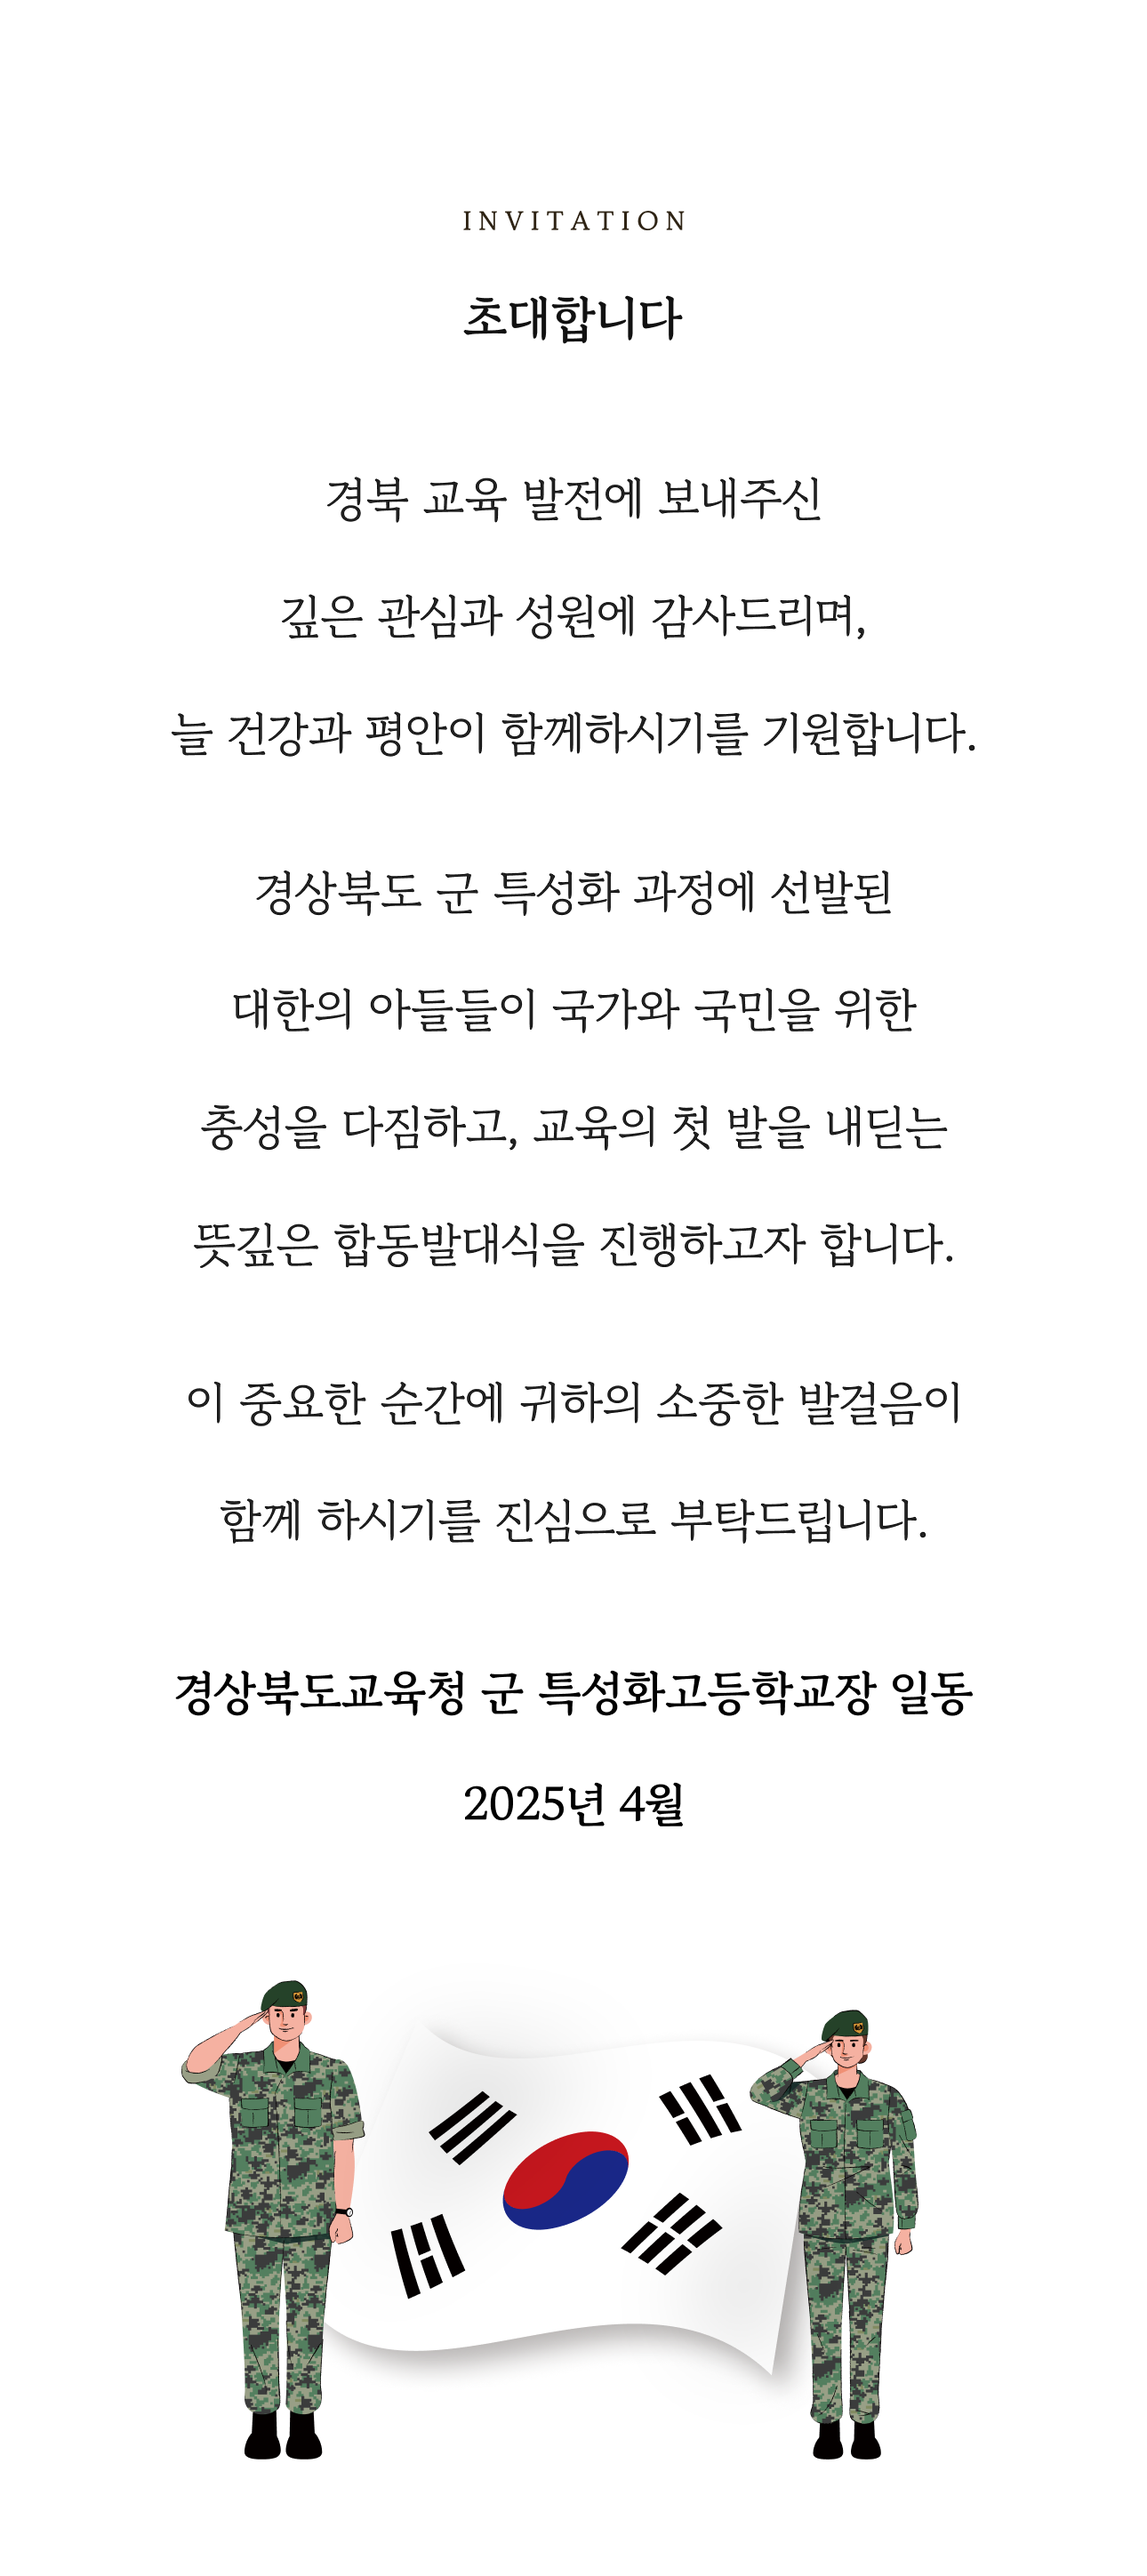
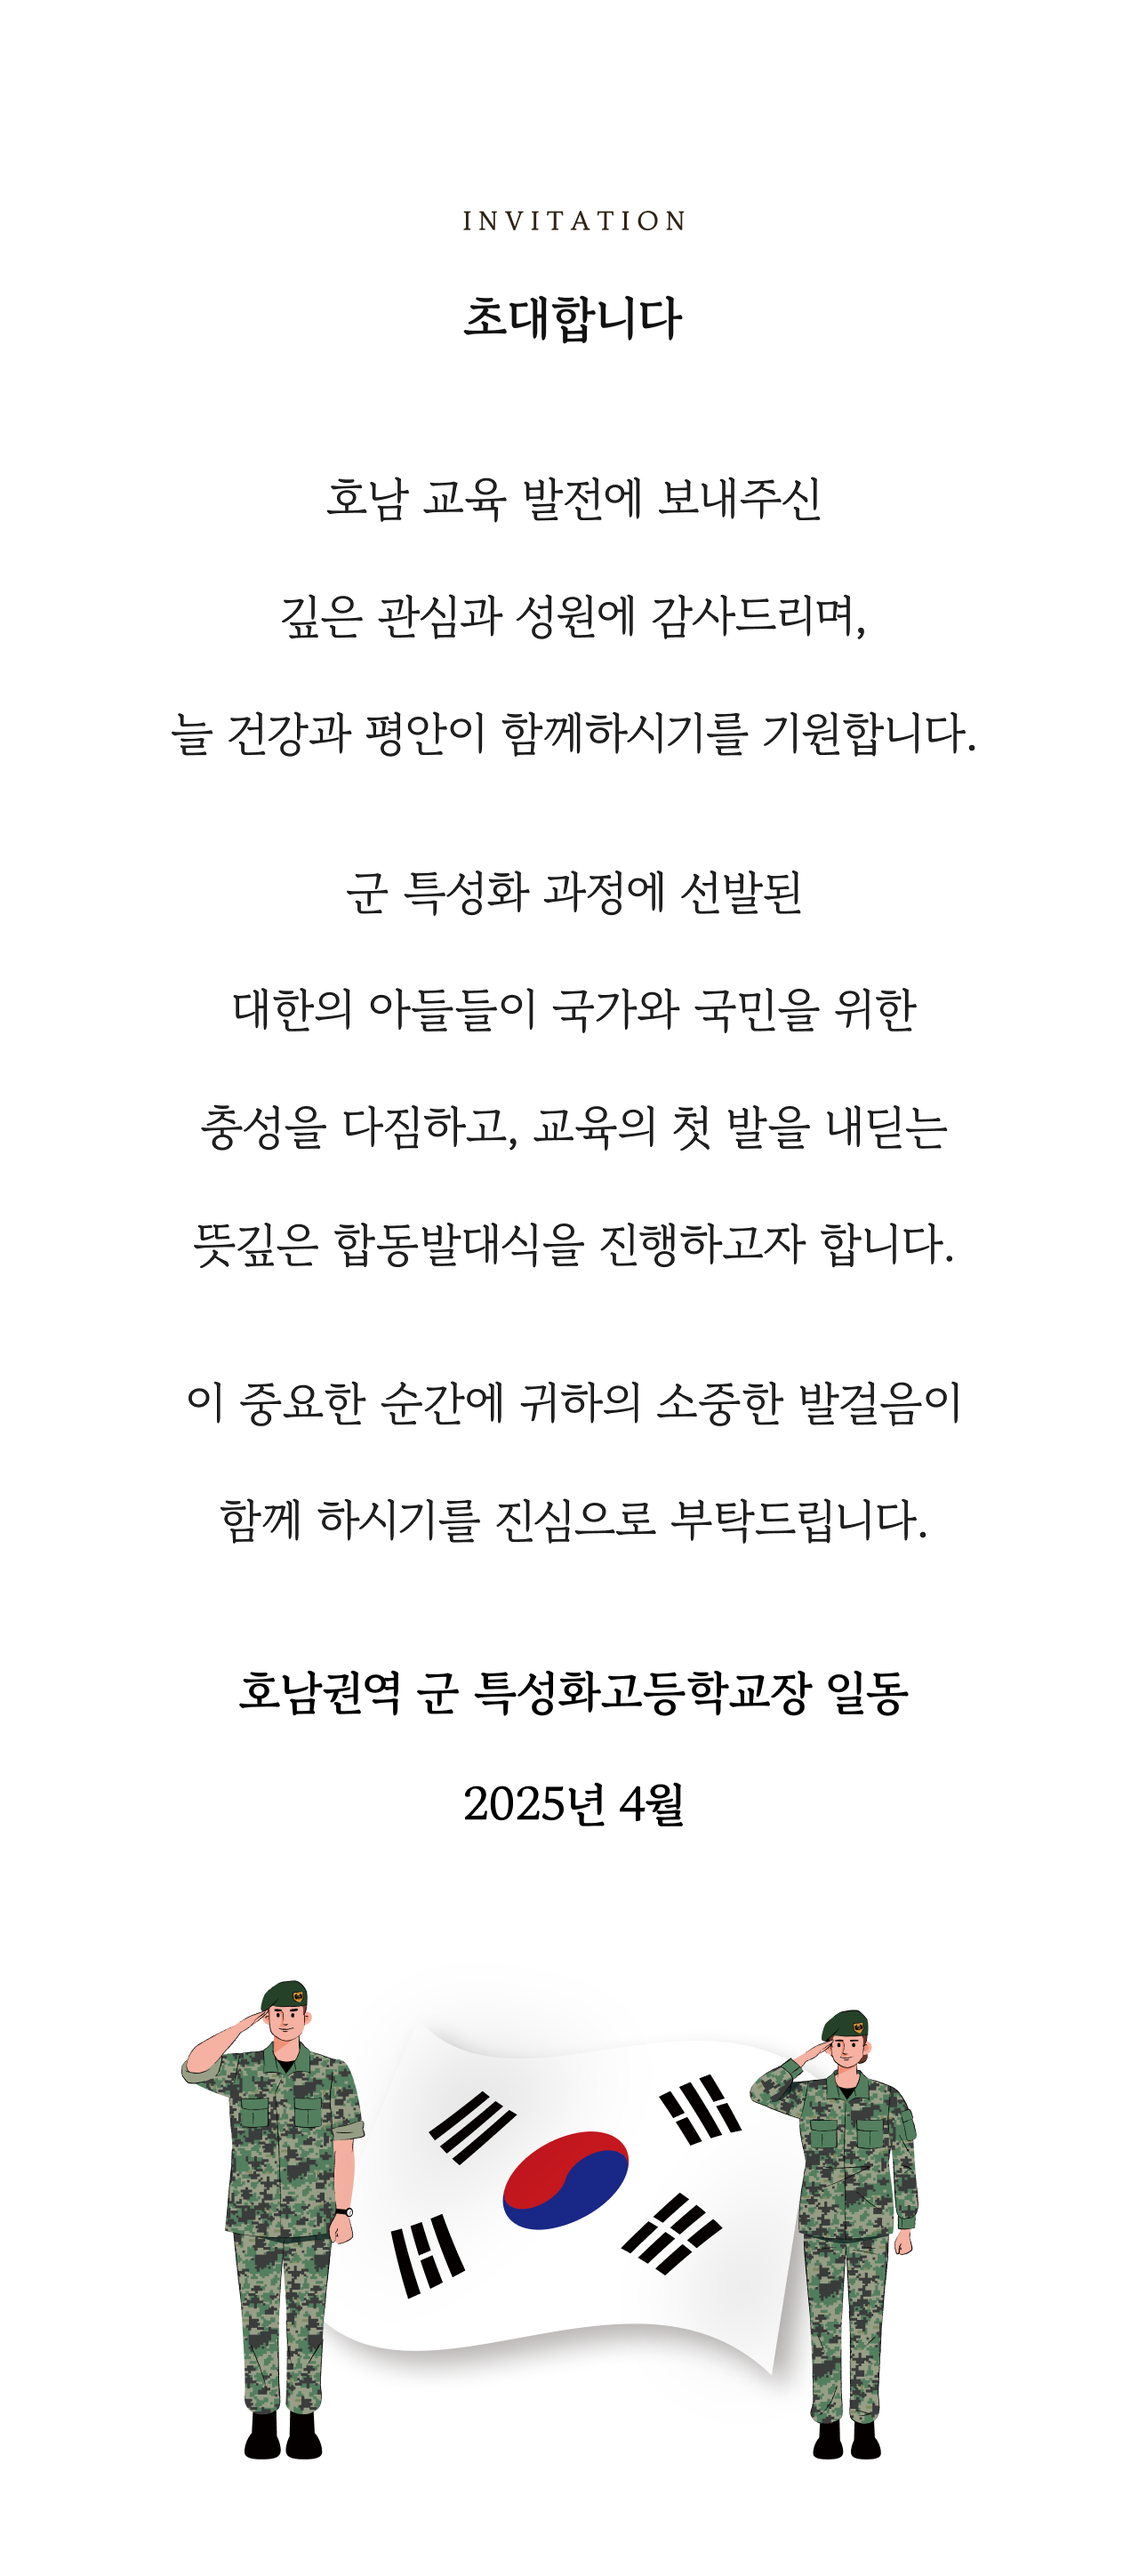
44

Changed region(s): [[0.155, 0.6524, 0.8372, 0.6835], [0.2481, 0.3417, 0.7752, 0.3728], [0.2791, 0.1864, 0.3721, 0.2175]]

diff --git a/index.html b/index.html
@@ -5,7 +5,7 @@
   <meta charset="utf-8" />
   <link rel="icon" href="/img/heart_icon.png" />
   <meta name="viewport" content="width=device-width" />
-  <title>25년 경상북도 군 특성화고 호남권역 합동 발대식에 초대합니다.</title>
+  <title>25년 군 특성화고 호남권역 합동 발대식에 초대합니다.</title>
   <meta http-equiv="X-UA-Compatible" content="IE=edge, chrome=1" />
   <meta name="viewport"
     content="width=device-width,initial-scale=1.0,maximum-scale=1.0,minimum-scale=1.0,user-scalable=no,target-densitydpi=medium-dpi" />
@@ -15,10 +15,10 @@
   <meta name="description" content="2025년 4월 15일 화요일" />
   <link rel="canonical" href="https://mo65.luvle.kr" />
   <meta property="og:url" content="https://mo65.luvle.kr" />
-  <meta property="og:title" content="25년 경상북도 군 특성화고 호남권역 합동 발대식에 초대합니다." />
+  <meta property="og:title" content="25년 군 특성화고 호남권역 합동 발대식에 초대합니다." />
   <meta property="og:description" content="2025년 4월 15일 화요일" />
-  <meta property="og:image" content="https://i.imgur.com/mqOGHD8.png" />
-  <meta property="og:site_name" content="25년 경상북도 군 특성화고 합동 발대식에 초대합니다." />
+  <meta property="og:image" content="https://i.imgur.com/0JsbYwH.png" />
+  <meta property="og:site_name" content="25년 군 특성화고 합동 발대식에 초대합니다." />
   <script src="https://cdn.tailwindcss.com"></script>
   <link rel="stylesheet" type="text/css" href="style.css" />
   <link rel="stylesheet" href="swiper-bundle.min.css" />
@@ -253,11 +253,11 @@
                     text-align: center;
                     line-height: 1.5rem;
                   ">
-              <p>경북 안동시 육사로 205
+              <p>전북 고창군 고창읍 중거리당산로 78-22
             
               </p>
               <p style="font-weight: 600; color: #000000">
-                안동체육관
+                강호항공고등학교 운동장
             </div>
             <div class="weddinghall-call-info">
               <button id="weddingHallCallButton">
@@ -285,8 +285,8 @@
           var mapContainer = document.getElementById("map"), // 지도를 표시할 div
             mapOption = {
               center: new kakao.maps.LatLng(
-                36.55982527260496,
-                128.72812994183428
+                35.42526908042583,
+                126.69992892920162
               ), // 지도의 중심좌표
               level: 3, // 지도의 확대 레벨
             };
@@ -306,8 +306,8 @@
 
           // 마커가 표시될 위치입니다
           var markerPosition = new kakao.maps.LatLng(
-            36.55982527260496,
-            128.72812994183428
+            35.42526908042583,
+            126.69992892920162
             );
           // 마커를 생성합니다
           var marker = new kakao.maps.Marker({
@@ -323,7 +323,7 @@
       <!-- map 길찾기 -->
       <div class="animate-on-scroll" id="MapIconDiv" style="background-color: #7A7A7A;">
         <div>
-          <a class="maplink" href="https://kko.kakao.com/EmwiZb4Fwc">
+          <a class="maplink" href="https://kko.kakao.com/oR8Jlhl072">
             <div>
               <button id="kakaoMapButton" type="button">
                 <!-- <img

diff --git a/gallery.js b/gallery.js
@@ -46,9 +46,9 @@ window.onload = () => {
     Kakao.Share.sendDefault({
       objectType: 'feed',
       content: {
-        title: '25년 경상북도 군 특성화고 호남권역 합동 발대식에 초대합니다.',
+        title: '25년 군 특성화고 호남권역 합동 발대식에 초대합니다.',
         description: '2025년 4월 15일 화요일',
-        imageUrl: 'https://i.imgur.com/mqOGHD8.png',
+        imageUrl: 'https://i.imgur.com/0JsbYwH.png',
         imageWidth: 1200,
         imageHeight: 630,
         link: {

diff --git a/countdown.js b/countdown.js
@@ -1,7 +1,7 @@
 document.addEventListener("DOMContentLoaded", function () {
   function updateCountdown() {
     // 결혼 날짜 설정 (년, 월(0부터 시작), 일, 시, 분) SD
-    const weddingDate = new Date(2025, 3, 17, 11, 0); // 예시: 2024년 10월 12일
+    const weddingDate = new Date(2025, 3, 15, 14, 0); // 예시: 2024년 10월 12일
 
     const currentDate = new Date();
     const timeDifference = weddingDate - currentDate;
